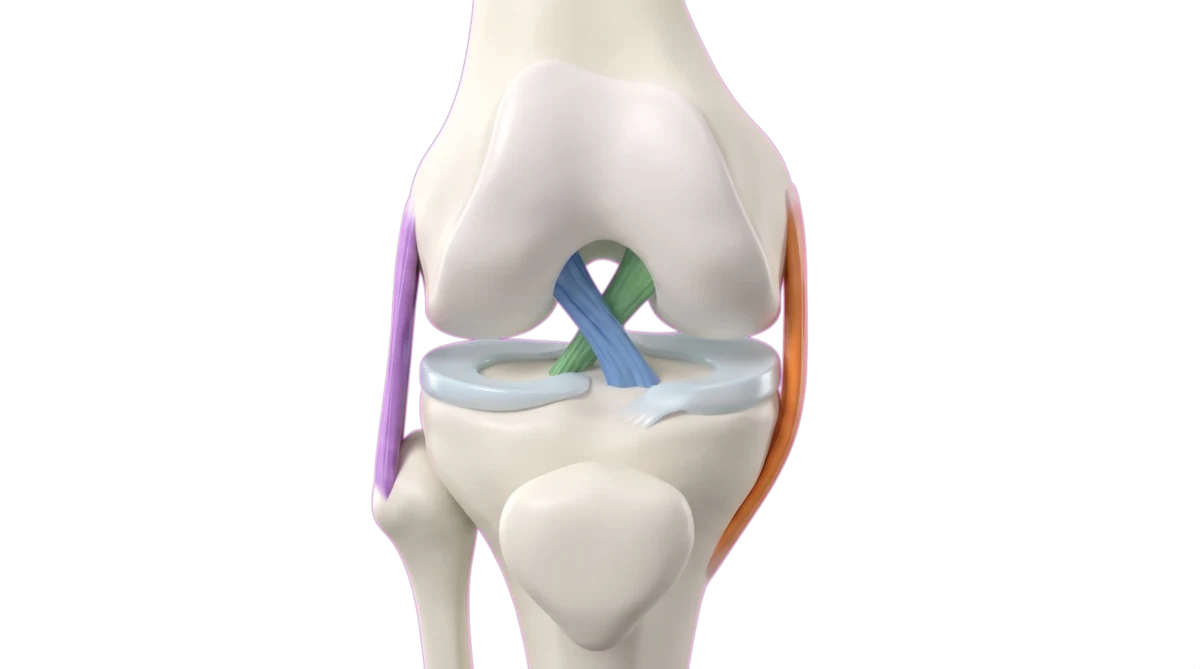
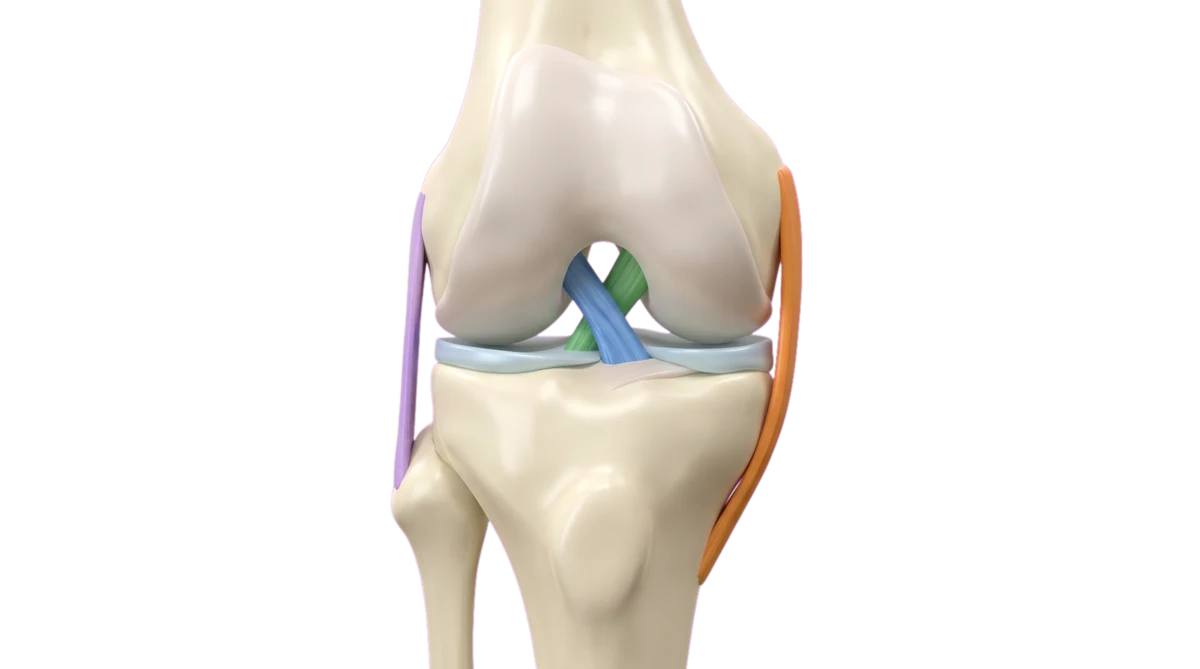
feat(content): redraw the knee illustration against Gray's Anatomy
The knee was redrawn from Gray's plates 347 and 349: flexed, patella removed, wedge-shaped menisci, the tibial tuberosity in place. The ACL article links the plate it was checked against.

Changed region(s): [[0.3083, 0.0598, 0.6783, 1.0], [0.5242, 0.0, 0.6167, 0.2691], [0.4008, 0.0, 0.4317, 0.0299]]

diff --git a/src/frontend/content/injuries/acl-tear.md b/src/frontend/content/injuries/acl-tear.md
@@ -7,8 +7,11 @@ movements: [box-jump, squat, snatch, clean-and-jerk, running]
 summary: Связка внутри колена рвётся частично или полностью, чаще без удара — при неудачном приземлении, резкой остановке или повороте на опорной ноге.
 images:
     - src: /injuries/knee-01-anatomy.webp
-      alt: 'Схема коленного сустава спереди: бедренная и большеберцовая кости, крестообразные и боковые связки, мениски'
-      caption: 'Коленный сустав: в центре перекрещиваются передняя и задняя крестообразные связки. Схематичная иллюстрация, сгенерирована нейросетью.'
+      alt: 'Правое колено спереди в сгибании, надколенник убран: мыщелки бедра, плато большеберцовой кости с менисками, крестообразные связки в межмыщелковой ямке, боковые связки по краям'
+      caption: 'Коленный сустав: в центре перекрещиваются передняя (синяя) и задняя (зелёная) крестообразные связки. Схематичная иллюстрация, сгенерирована нейросетью.'
+      atlas:
+          file: Gray347.png
+          caption: 'Правое колено спереди, внутренние связки'
 sources:
     - pmid: '35278328'
       label: Knapik 2022, метаанализ травм в HIFT, 28 исследований
